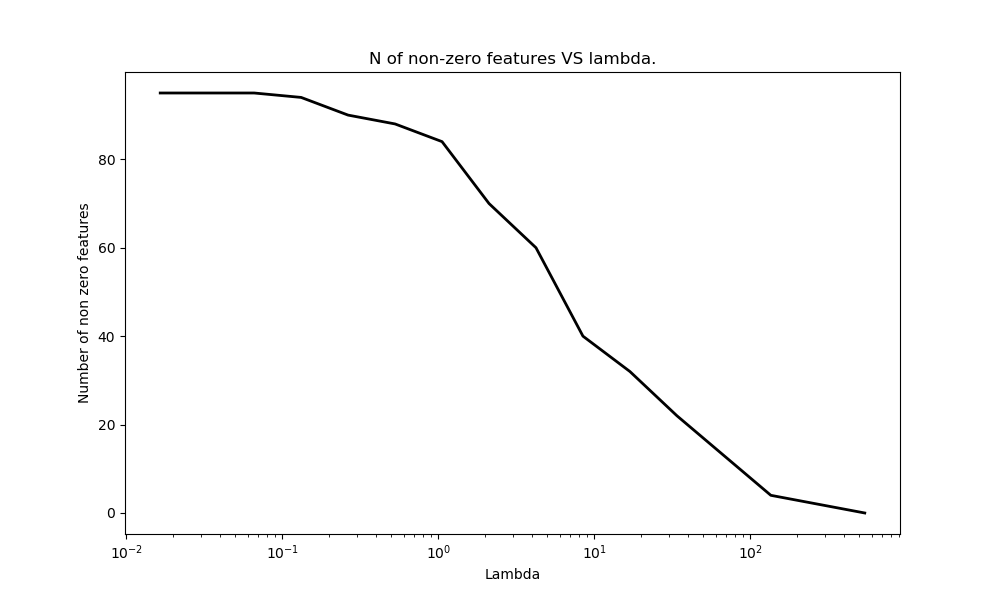
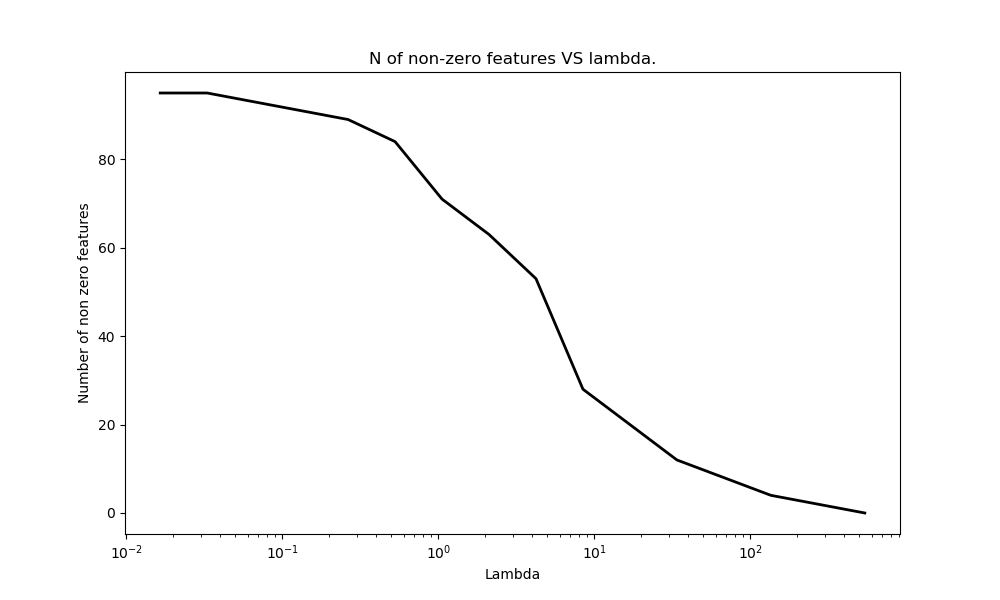
Update code and plots.

diff --git a/HW2/HW2_code_solutions/coordinate_descent.py b/HW2/HW2_code_solutions/coordinate_descent.py
@@ -2,7 +2,8 @@ import matplotlib.pyplot as plt
 import numpy as np
 import pandas as pd
 
-def descent(x, y, lambd, tolerance=0.001, initW=None):
+
+def descent(x, y, lambd, tolerance=0.001, initW=None, convergeFast=True):
     """Preforms coordinate descent Lasso algorithm on the given data.
 
     Parameters
@@ -14,9 +15,16 @@ def descent(x, y, lambd, tolerance=0.001, initW=None):
         A column vector of n model values.
     lambd: `float`
         Regularization parameter.
-    tolerance: `float`
-        Convergence is achieved when the absolute value of minimal difference
-        of old weights and the new weights estimates is less than tolerance.
+    tolerance: `float`, optional
+        Convergence is achieved when the convergence criterion is smaller than
+        tolerance.
+    convergeFast: `bool`, optional
+        When True, the convergence is calculated as the difference between
+        maximum of new weights and maximal value of old weights; implying that
+        it's likelythe two actually point to the same feature. This is not
+        optimal, bu is much faster than calculating absolute value of minimal
+        difference of the old and the new weights, as it's possible to avoid
+        storing the old weights. True by default.
     initW: `np.array`
         Initial weights, a vector of d feature weights.
 
@@ -38,9 +46,12 @@ def descent(x, y, lambd, tolerance=0.001, initW=None):
     # ensure convergence is not met on first loop
     convergeCriterion = tolerance + 1
     while convergeCriterion > tolerance:
-        # not optimal test, but fast
-        oldMax = w.max()
-        deltas = []
+        if convergeFast:
+            # not optimal test, but fast
+            oldMax = w.max()
+            deltas = []
+        else:
+            oldW = w.copy()
 
         # Algorithm 1 implementation
         b = np.mean(y - np.dot(x, w))
@@ -63,9 +74,14 @@ def descent(x, y, lambd, tolerance=0.001, initW=None):
                 delta = (ck - lambd) / ak
                 w[k] = delta
 
-            deltas.append(delta)
-        # Find maximum difference between iterations
-        convergeCriterion = abs(oldMax-max(deltas))
+            if convergeFast:
+                deltas.append(delta)
+        if convergeFast:
+            # Find maximum difference between iterations
+            convergeCriterion = abs(oldMax-max(deltas))
+        else:
+            convergeCriterion = np.max(np.abs(oldW-w))
+
     return w
 
 
@@ -224,6 +240,7 @@ def A4(nIter=20, tolerance=0.001):
     k = params['k']
 
     lambdas, numNonZeros, fdrs, tprs = [], [], [], []
+    w = np.zeros(params['d'])
     for i in range(nIter):
         w = descent(x, y, lambd, tolerance)
 
@@ -339,13 +356,31 @@ def A5ab():
     w = np.zeros(d)
     lambd = lMaxTrain
 
+    colNames = xTrain.columns.tolist()
+    idxAgePct12 = colNames.index('agePct12t29')
+    idxPctSoc = colNames.index('pctWSocSec')
+    idxPctUrban = colNames.index('pctUrban')
+    idxAgePct65 = colNames.index('agePct65up')
+    idxHouse = colNames.index('householdsize')
+
+    wAgePct12, wPctSoc, wPctUrban, wAgePct65, wHouseholdsize = [] ,[], [], [], []
     lambdas, numNonZeros, sqrErrTrain, sqrErrTest = [], [], [], []
+
+    # run the actual fit, note w overrides itself, do proper convergence
+    # because this is much shorter loop than a.
     while lambd > 0.01:
-        w = descent(xTrain.values, yTrain.values, lambd, initW=w)
+        w = descent(xTrain.values, yTrain.values, lambd, initW=w, convergeFast=False)
+
         numNonZeros.append(np.count_nonzero(w))
         lambdas.append(lambd)
         sqrErrTrain.append(mean_square_error(xTrain.values, yTrain.values, w))
         sqrErrTest.append(mean_square_error(xTest.values, yTest.values, w))
+        wAgePct12.append(w[idxAgePct12])    
+        wPctSoc.append(w[idxPctSoc])
+        wPctUrban.append(w[idxPctUrban])
+        wAgePct65.append(w[idxAgePct65])
+        wHouseholdsize.append(w[idxHouse])
+
         lambd /= 2.0
 
     fig1, ax1 = plt.subplots(figsize=(10, 6))
@@ -353,15 +388,25 @@ def A5ab():
          ylabel="Number of non zero features",
          title="N of non-zero features VS lambda.")
 
+    c = plt.cm.viridis(np.linspace(0, 0.8, 5))
     fig2, ax2 = plt.subplots(figsize=(10, 6))
-    plot(ax2, lambdas, sqrErrTrain, label="MSE Train", lc="gray")
-    plot(ax2, lambdas, sqrErrTest, label="MSE Test", xlabel="Lambda",
-         ylabel="Mean Square Error", title="Mean Square Error VS lambda.")
+    plot(ax2, lambdas, wPctSoc, label="agePct12t29", lc=c[0])
+    plot(ax2, lambdas, wPctSoc, label="pctWSocSec", lc=c[1])
+    plot(ax2, lambdas, wPctUrban, label="pctUrban", lc=c[2])
+    plot(ax2, lambdas, wAgePct65, label="agePct65up", lc=c[3])
+    plot(ax2, lambdas, wHouseholdsize, label="Householdsize", xlabel="Lambda",
+         ylabel="Weight value", title="Number of variables VS lambda.", lc=c[4])
     ax2.legend()
+    
+    fig3, ax3 = plt.subplots(figsize=(10, 6))
+    plot(ax3, lambdas, sqrErrTrain, label="MSE Train", lc="gray")
+    plot(ax3, lambdas, sqrErrTest, label="MSE Test", xlabel="Lambda",
+         ylabel="Mean Square Error", title="Mean Square Error VS lambda.")
+    ax3.legend()
     plt.show()
 
 
-def A5c():
+def A5cd():
     """Sets the data up as instructed by problem A5 and runs coordinate
     descent Lasso algorithm with regularization value of 30. 
 
@@ -385,7 +430,7 @@ def A5c():
     lambd = 30
 
     lambdas, numNonZeros, sqrErr = [], [], []
-    w = descent(xTrain.values, yTrain.values, lambd, initW=w)
+    w = descent(xTrain.values, yTrain.values, lambd, initW=w, convergeFast=False)
     numNonZeros.append(np.count_nonzero(w))
     lambdas.append(lambd)
 
@@ -403,12 +448,12 @@ def A5c():
 
 
 def A5():
-    """Runs A5ab and A5c functions."""
+    """Runs A5ab and A5cd functions."""
     A5ab()
-    A5c()
+    A5cd()
 
 
 if __name__ == "__main__":
-    A4()
+#    A4()
     A5()
 
